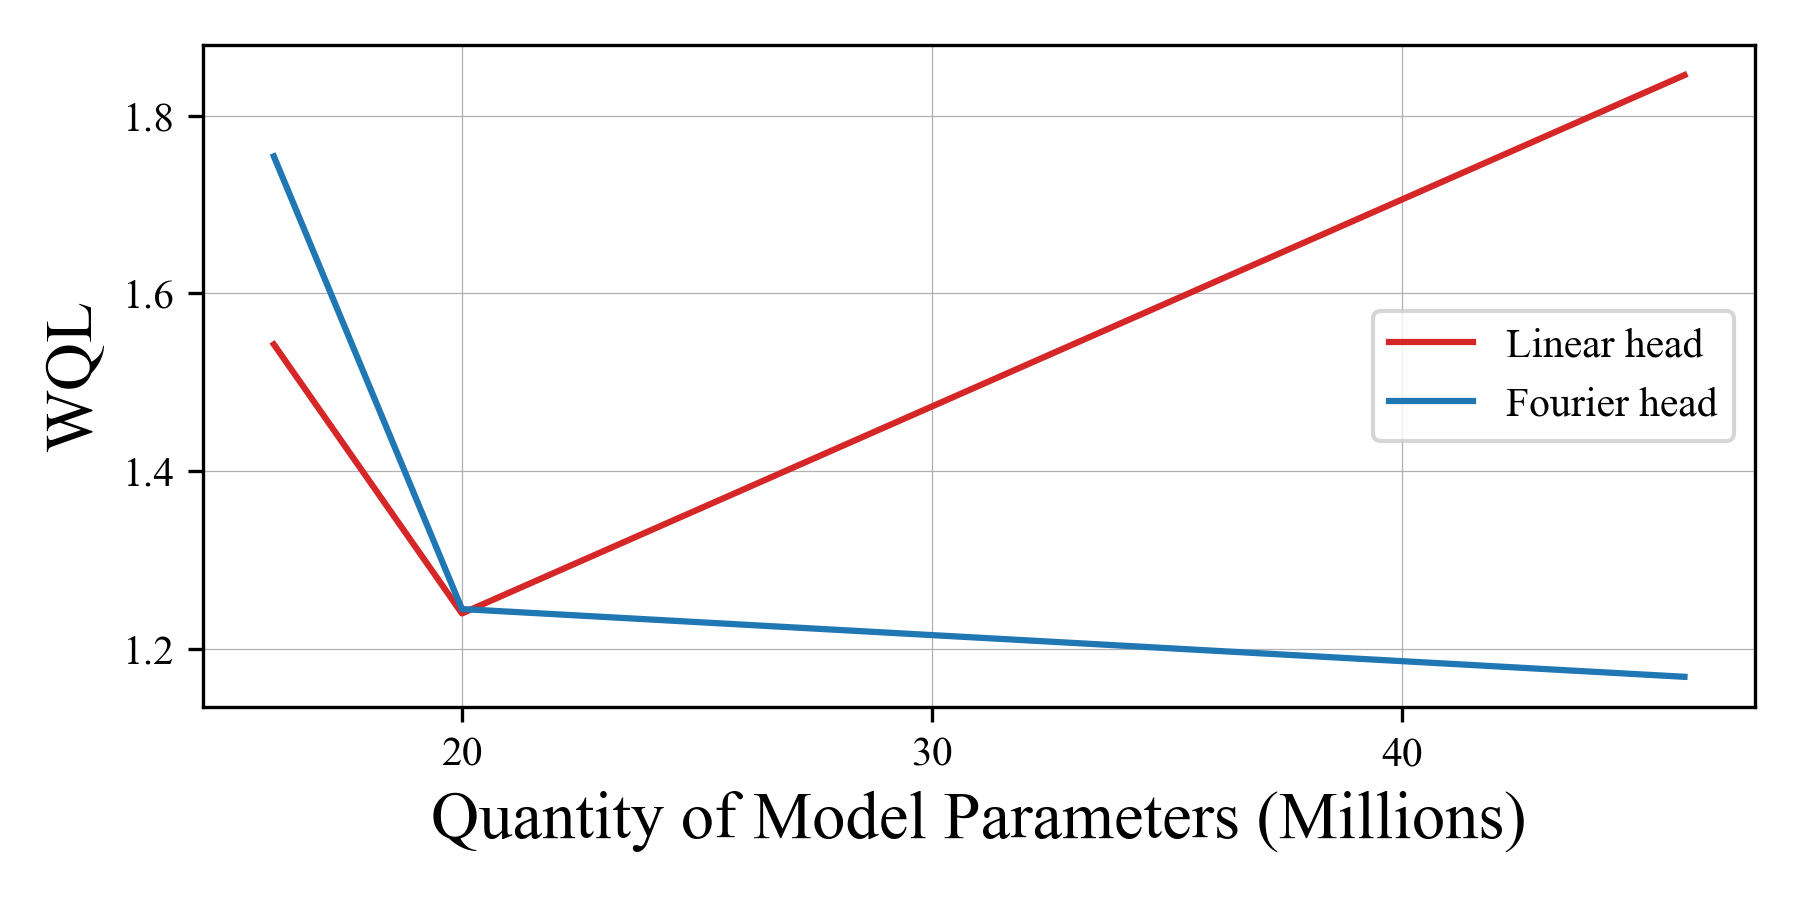
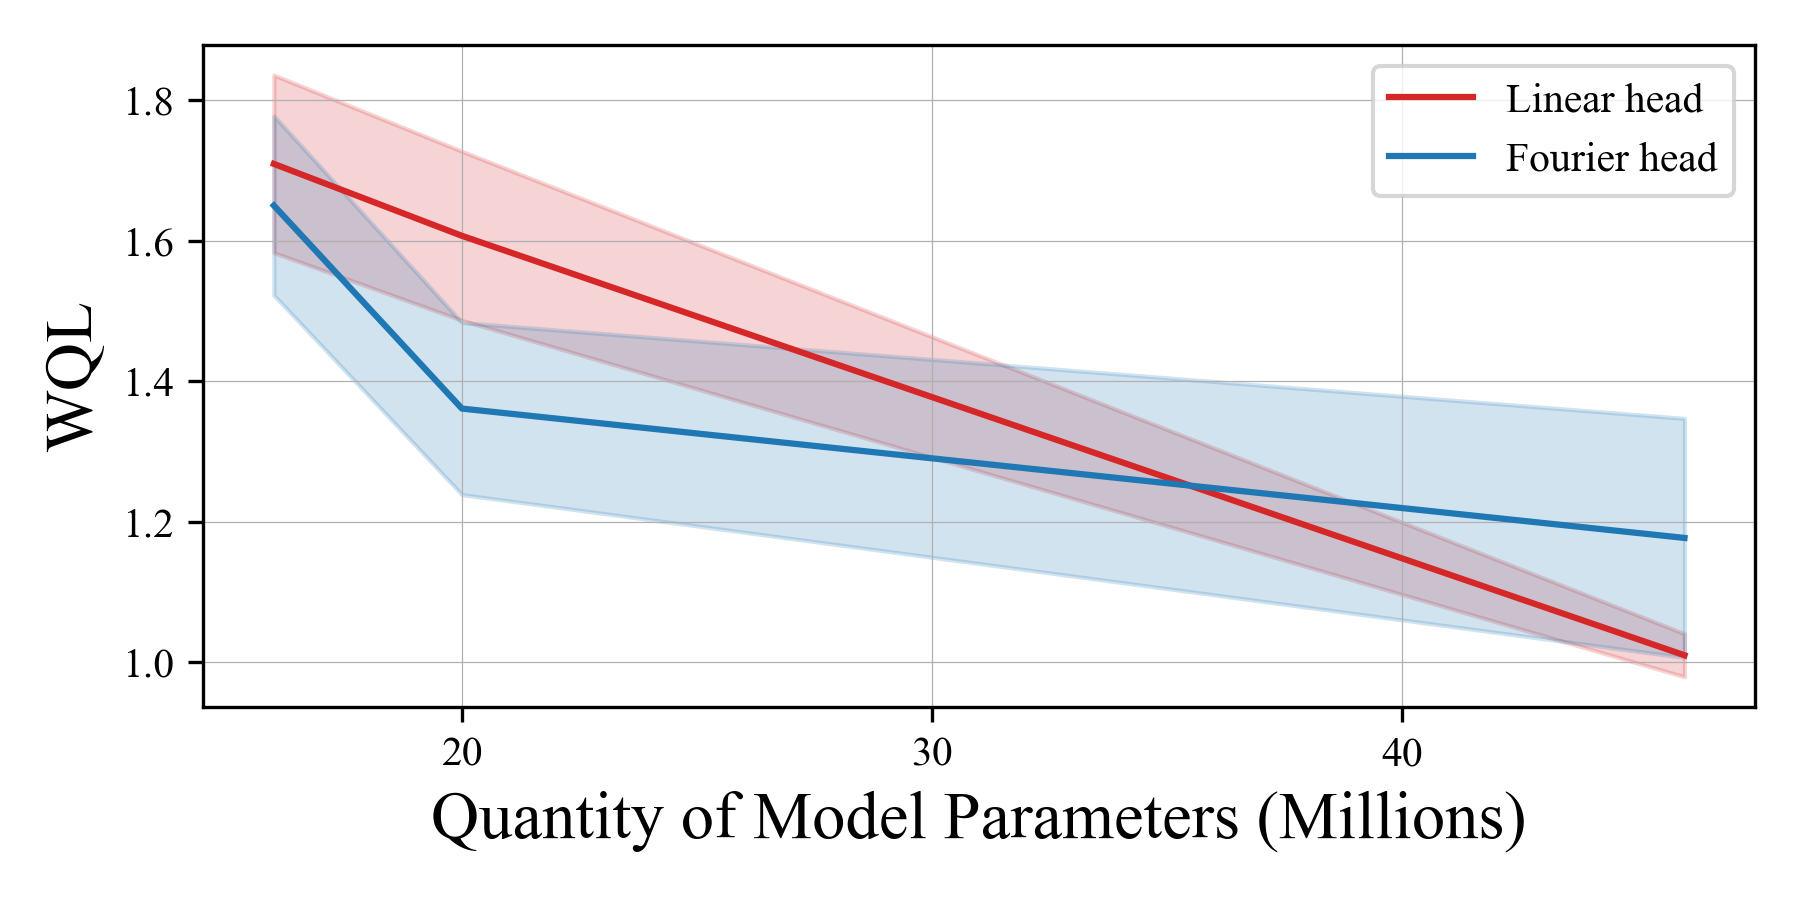
update graphs

diff --git a/time-series-forecasting/scripts/eval/graphing/chronos_ablation_varying_model_size.py b/time-series-forecasting/scripts/eval/graphing/chronos_ablation_varying_model_size.py
@@ -10,40 +10,79 @@ font_manager.fontManager.addfont(font_path)
 plt.rcParams['font.family'] = 'serif'
 plt.rcParams['font.serif'] = 'Times New Roman'
 
-idxs = {
+idxs_v1 = {
     "linear" : {
-        0 : {
+        0 : { # tiny
             "run_idxs" : [0],
             "num_params" : 16
         },
-        1 : {
+        1 : { # mini
             "run_idxs" : [2],
             "num_params" : 20
         },
-        2 : {
+        2 : { # small
             "run_idxs" : [3],
             "num_params" : 46
         },
-        # 3 : {
+        # 3 : { # base
         #     "run_idxs" : [4],
         #     "num_params" : 200
         # },
     },
     "fourier" : {
-        0 : {
+        0 : { # tiny
             "run_idxs" : [1],
             "num_params" : 16
         },
-        1 : {
+        1 : { # mini
             "run_idxs" : [6],
             "num_params" : 20
         },
-        2 : {
+        2 : { # small
             "run_idxs" : [10],
             "num_params" : 46
         },
-        # 3 : {
+        # 3 : { # base
         #     "run_idxs" : [5],
+        #     "num_params" : 200
+        # },
+    },
+}
+
+idxs = {
+    "linear" : {
+        0 : { # tiny
+            "run_idxs" : [0, 1, 2, 6],
+            "num_params" : 16
+        },
+        1 : { # mini
+            "run_idxs" : [10, 11, 12, 13],
+            "num_params" : 20
+        },
+        2 : { # small
+            "run_idxs" : [18, 19, 20, 21],
+            "num_params" : 46
+        },
+        # 3 : { # base
+        #     "run_idxs" : [26, 27, 28, 29],
+        #     "num_params" : 200
+        # },
+    },
+    "fourier" : {
+        0 : { # tiny
+            "run_idxs" : [5, 7, 8, 9],
+            "num_params" : 16
+        },
+        1 : { # mini
+            "run_idxs" : [14, 15, 16, 17],
+            "num_params" : 20
+        },
+        2 : { # small
+            "run_idxs" : [22, 23, 24, 25],
+            "num_params" : 46
+        },
+        # 3 : { # base
+        #     "run_idxs" : [30, 31, 32, 33],
         #     "num_params" : 200
         # },
     },
@@ -54,7 +93,7 @@ def get_largest_checkpoint_idx(lst):
     ckpt = str(max(lst_ints))
     return ckpt
 
-def gather_metrics():
+def gather_metrics(base_path):
     metrics = {
         "linear": {"MASE": [], "WQL": [], "MASE_std": [], "WQL_std": [], "num_params" : []},
         "fourier": {"MASE": [], "WQL": [], "MASE_std": [], "WQL_std": [], "num_params" : []}
@@ -75,7 +114,7 @@ def gather_metrics():
             
             # Process each run for this dataset size
             for idx in run_indices:
-                file_path = f"output/run-{idx}/eval_dict-zero-shot.json"
+                file_path = f"{base_path}/run-{idx}/eval_dict-zero-shot.json"
                 try:
                     with open(file_path, "r") as f:
                         data = json.load(f)
@@ -147,7 +186,10 @@ def build_graph(metric_name, x_positions, linear_values, fourier_values, linear_
     plt.close()
 
 def main():
-    metrics = gather_metrics()
+
+    base_path = "output/11-26-pt3-ablation-model-size"
+
+    metrics = gather_metrics(base_path)
     
     # Create MASE graph
     build_graph(
@@ -157,7 +199,7 @@ def main():
         metrics["fourier"]["MASE"],
         metrics["linear"]["MASE_std"],
         metrics["fourier"]["MASE_std"],
-        "scripts/eval/graphing/chronos_ablation_varying_model_size_MASE.png"
+        "scripts/eval/graphing/chronos_ablation_varying_model_size_MASE.png",
     )
     
     # Create WQL graph
